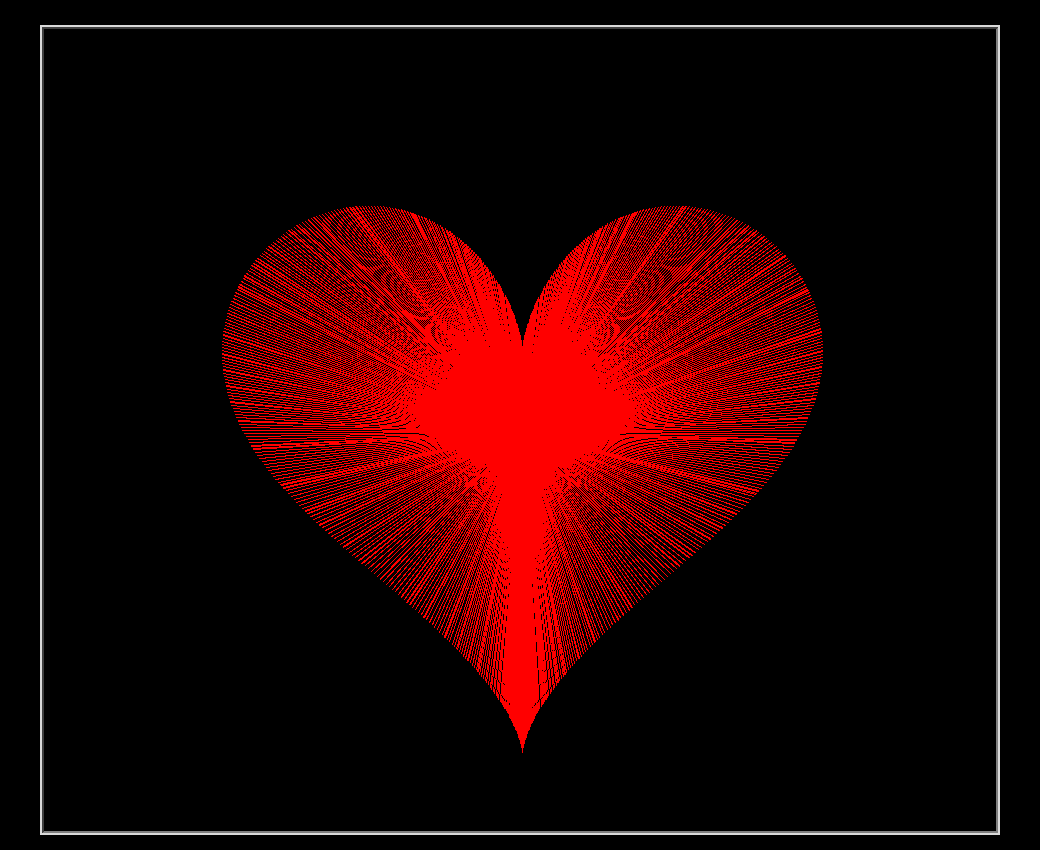
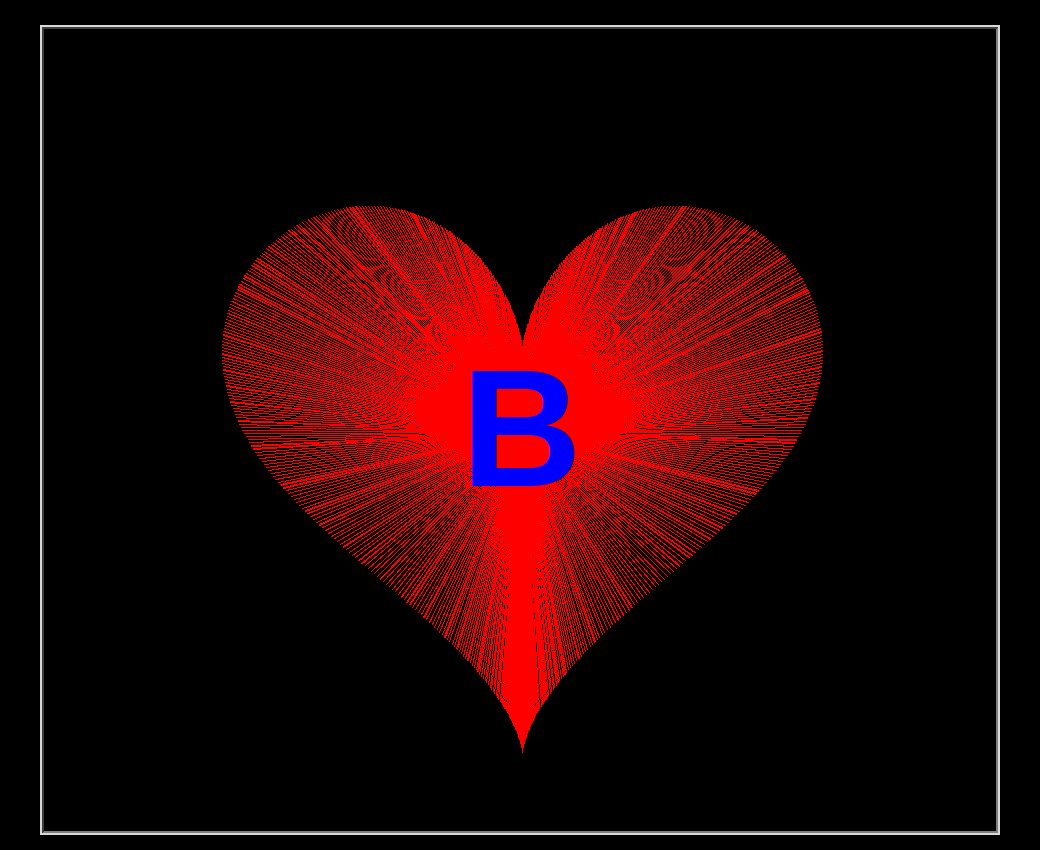
Write a blue B in the middle of the heart
Claude-Session: https://claude.ai/code/session_019vKKXBNppy5f5vYWzPHC7Z

Changed region(s): [[0.4308, 0.4282, 0.5538, 0.5812]]

diff --git a/heart.py b/heart.py
@@ -17,5 +17,10 @@ for i in range(6000):
     goto(hearta(i)*20, heartb(i)*20)
     goto(0, 0)
 
+penup()
+goto(0, -90)
+color("blue")
+write("B", align="center", font=("Arial", 120, "bold"))
+
 update()
 done()
